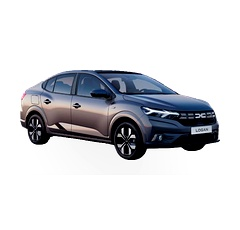
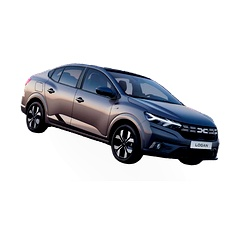
first test

Changed region(s): [[0.0583, 0.2739, 0.9333, 0.7304]]

diff --git a/projects/car_preprocessing/src/dataset_builder/studio_processor.py b/projects/car_preprocessing/src/dataset_builder/studio_processor.py
@@ -8,6 +8,156 @@ from PIL import Image, ImageEnhance, ImageFilter
 import cv2
 
 
+def correct_orientation(rgba_image, auto_rotate=True, rotation_angle=None):
+    """
+    Corrige l'orientation d'une image RGBA détourée pour qu'elle soit bien droite.
+    
+    Cette fonction analyse le canal alpha pour détecter l'angle d'inclinaison
+    de l'objet et le redresse automatiquement.
+    
+    Méthodes de détection utilisées:
+    1. Rectangle minimal englobant (Minimum Area Rectangle) via OpenCV
+    2. Analyse des contours de l'objet
+    3. Détection de l'axe principal via moments d'image
+    
+    Args:
+        rgba_image: PIL.Image en mode RGBA (objet sur fond transparent)
+        auto_rotate: Si True, détecte et corrige automatiquement l'angle
+        rotation_angle: Angle de rotation manuel (degrés, sens horaire)
+    
+    Returns:
+        PIL.Image: Image RGBA redressée
+    """
+    
+    if not isinstance(rgba_image, Image.Image):
+        raise TypeError("rgba_image doit être un objet PIL.Image")
+    
+    if rgba_image.mode != 'RGBA':
+        raise ValueError("L'image doit être en mode RGBA")
+    
+    print("[Orientation] Analyse de l'orientation de l'objet...")
+    
+    # ========================================================================
+    # ÉTAPE 1: EXTRACTION DU CANAL ALPHA ET CONVERSION EN FORMAT OPENCV
+    # ========================================================================
+    
+    # Convertir PIL → numpy array
+    rgba_array = np.array(rgba_image)
+    
+    # Extraire le canal alpha (masque binaire de l'objet)
+    alpha_channel = rgba_array[:, :, 3]
+    
+    # Vérifier si l'image n'est pas vide
+    if np.sum(alpha_channel) == 0:
+        print("[Orientation] Image vide, aucune correction nécessaire.")
+        return rgba_image
+    
+    # ========================================================================
+    # ÉTAPE 2: DÉTECTION AUTOMATIQUE DE L'ANGLE D'INCLINAISON
+    # ========================================================================
+    
+    if auto_rotate and rotation_angle is None:
+        # Méthode 1: Rectangle minimal englobant (Minimum Area Rectangle)
+        # Cette méthode trouve le plus petit rectangle qui englobe l'objet
+        # et retourne son angle d'orientation
+        
+        # Binariser le masque (seuillage)
+        _, binary_mask = cv2.threshold(alpha_channel, 127, 255, cv2.THRESH_BINARY)
+        
+        # Trouver les contours de l'objet
+        contours, _ = cv2.findContours(
+            binary_mask,
+            cv2.RETR_EXTERNAL,
+            cv2.CHAIN_APPROX_SIMPLE
+        )
+        
+        if len(contours) == 0:
+            print("[Orientation] Aucun contour détecté, aucune correction nécessaire.")
+            return rgba_image
+        
+        # Prendre le plus grand contour (l'objet principal)
+        main_contour = max(contours, key=cv2.contourArea)
+        
+        # Calculer le rectangle minimal englobant
+        # minAreaRect retourne: ((center_x, center_y), (width, height), angle)
+        rect = cv2.minAreaRect(main_contour)
+        (center_x, center_y), (width, height), angle = rect
+        
+        print(f"[Orientation] Rectangle minimal détecté: angle = {angle:.2f}°")
+        
+        # ========================================================================
+        # LOGIQUE DE CORRECTION D'ANGLE
+        # ========================================================================
+        # OpenCV retourne un angle entre -90° et 0°
+        # On veut que l'objet soit horizontal (angle proche de 0°)
+        
+        # Si le rectangle est plus large que haut, l'objet est déjà horizontal
+        # Si le rectangle est plus haut que large, il faut le faire pivoter de 90°
+        
+        if width < height:
+            # L'objet est vertical, on le tourne de 90°
+            rotation_angle = angle + 90
+        else:
+            # L'objet est horizontal, on corrige juste le petit angle
+            rotation_angle = angle
+        
+        # Normaliser l'angle pour éviter les grandes rotations
+        # On veut corriger uniquement les petites inclinaisons (-45° à +45°)
+        if abs(rotation_angle) > 45:
+            rotation_angle = 0
+        
+        print(f"[Orientation] Angle de correction calculé: {rotation_angle:.2f}°")
+    
+    elif rotation_angle is not None:
+        print(f"[Orientation] Utilisation de l'angle manuel: {rotation_angle:.2f}°")
+    else:
+        print("[Orientation] Aucune rotation demandée.")
+        return rgba_image
+    
+    # ========================================================================
+    # ÉTAPE 3: APPLICATION DE LA ROTATION
+    # ========================================================================
+    
+    if abs(rotation_angle) < 0.5:
+        print("[Orientation] Angle négligeable, aucune rotation appliquée.")
+        return rgba_image
+    
+    print(f"[Orientation] Application de la rotation de {rotation_angle:.2f}°...")
+    
+    # Convertir l'angle en radians pour les calculs
+    # Note: PIL.Image.rotate() prend l'angle en degrés, sens anti-horaire
+    # On inverse le signe pour corriger dans le bon sens
+    rotation_angle_pil = -rotation_angle
+    
+    # Appliquer la rotation avec PIL (gestion automatique de la transparence)
+    # expand=True agrandit le canvas pour contenir toute l'image tournée
+    rotated_image = rgba_image.rotate(
+        rotation_angle_pil,
+        resample=Image.Resampling.BICUBIC,
+        expand=True,
+        fillcolor=(0, 0, 0, 0)  # Fond transparent
+    )
+    
+    print("[Orientation] Rotation appliquée avec succès.")
+    
+    # ========================================================================
+    # ÉTAPE 4: RECADRAGE POUR ENLEVER LES BORDS TRANSPARENTS EXCESSIFS
+    # ========================================================================
+    
+    # Après rotation, il peut y avoir beaucoup d'espace transparent
+    # On recadre pour garder uniquement la zone utile
+    
+    alpha_rotated = rotated_image.split()[3]
+    bbox = alpha_rotated.getbbox()
+    
+    if bbox:
+        # Recadrer l'image selon la bounding box
+        rotated_image = rotated_image.crop(bbox)
+        print("[Orientation] Image recadrée après rotation.")
+    
+    return rotated_image
+
+
 def apply_professional_studio_look(
     rgba_image,
     output_size=(1024, 1024),
@@ -19,12 +169,14 @@ def apply_professional_studio_look(
     sharpness_factor=1.3,
     contrast_factor=1.15,
     saturation_factor=1.2,
-    background_color=(255, 255, 255)
+    background_color=(255, 255, 255),
+    auto_correct_orientation=True
 ):
     """
     Applique un post-traitement professionnel à une image RGBA détourée.
     
     Cette fonction simule une photo prise en studio professionnel avec :
+    - Correction automatique de l'orientation (redressement)
     - Ombre portée réaliste (drop shadow avec perspective)
     - Color grading (netteté, contraste, saturation)
     - Composition centrée sur fond blanc
@@ -41,6 +193,7 @@ def apply_professional_studio_look(
         contrast_factor: Facteur de contraste (1.0 = original, >1.0 = plus de contraste)
         saturation_factor: Facteur de saturation (1.0 = original, >1.0 = plus saturé)
         background_color: Couleur de fond RGB (tuple)
+        auto_correct_orientation: Si True, corrige automatiquement l'orientation
     
     Returns:
         PIL.Image: Image finale en mode RGB avec rendu studio professionnel
@@ -51,6 +204,13 @@ def apply_professional_studio_look(
     
     if rgba_image.mode != 'RGBA':
         raise ValueError("L'image doit être en mode RGBA")
+    
+    # ========================================================================
+    # ÉTAPE 0: CORRECTION DE L'ORIENTATION (NOUVEAU)
+    # ========================================================================
+    
+    if auto_correct_orientation:
+        rgba_image = correct_orientation(rgba_image, auto_rotate=True)
     
     # ========================================================================
     # ÉTAPE 1: EXTRACTION DU CANAL ALPHA ET CALCUL DE LA BOUNDING BOX
